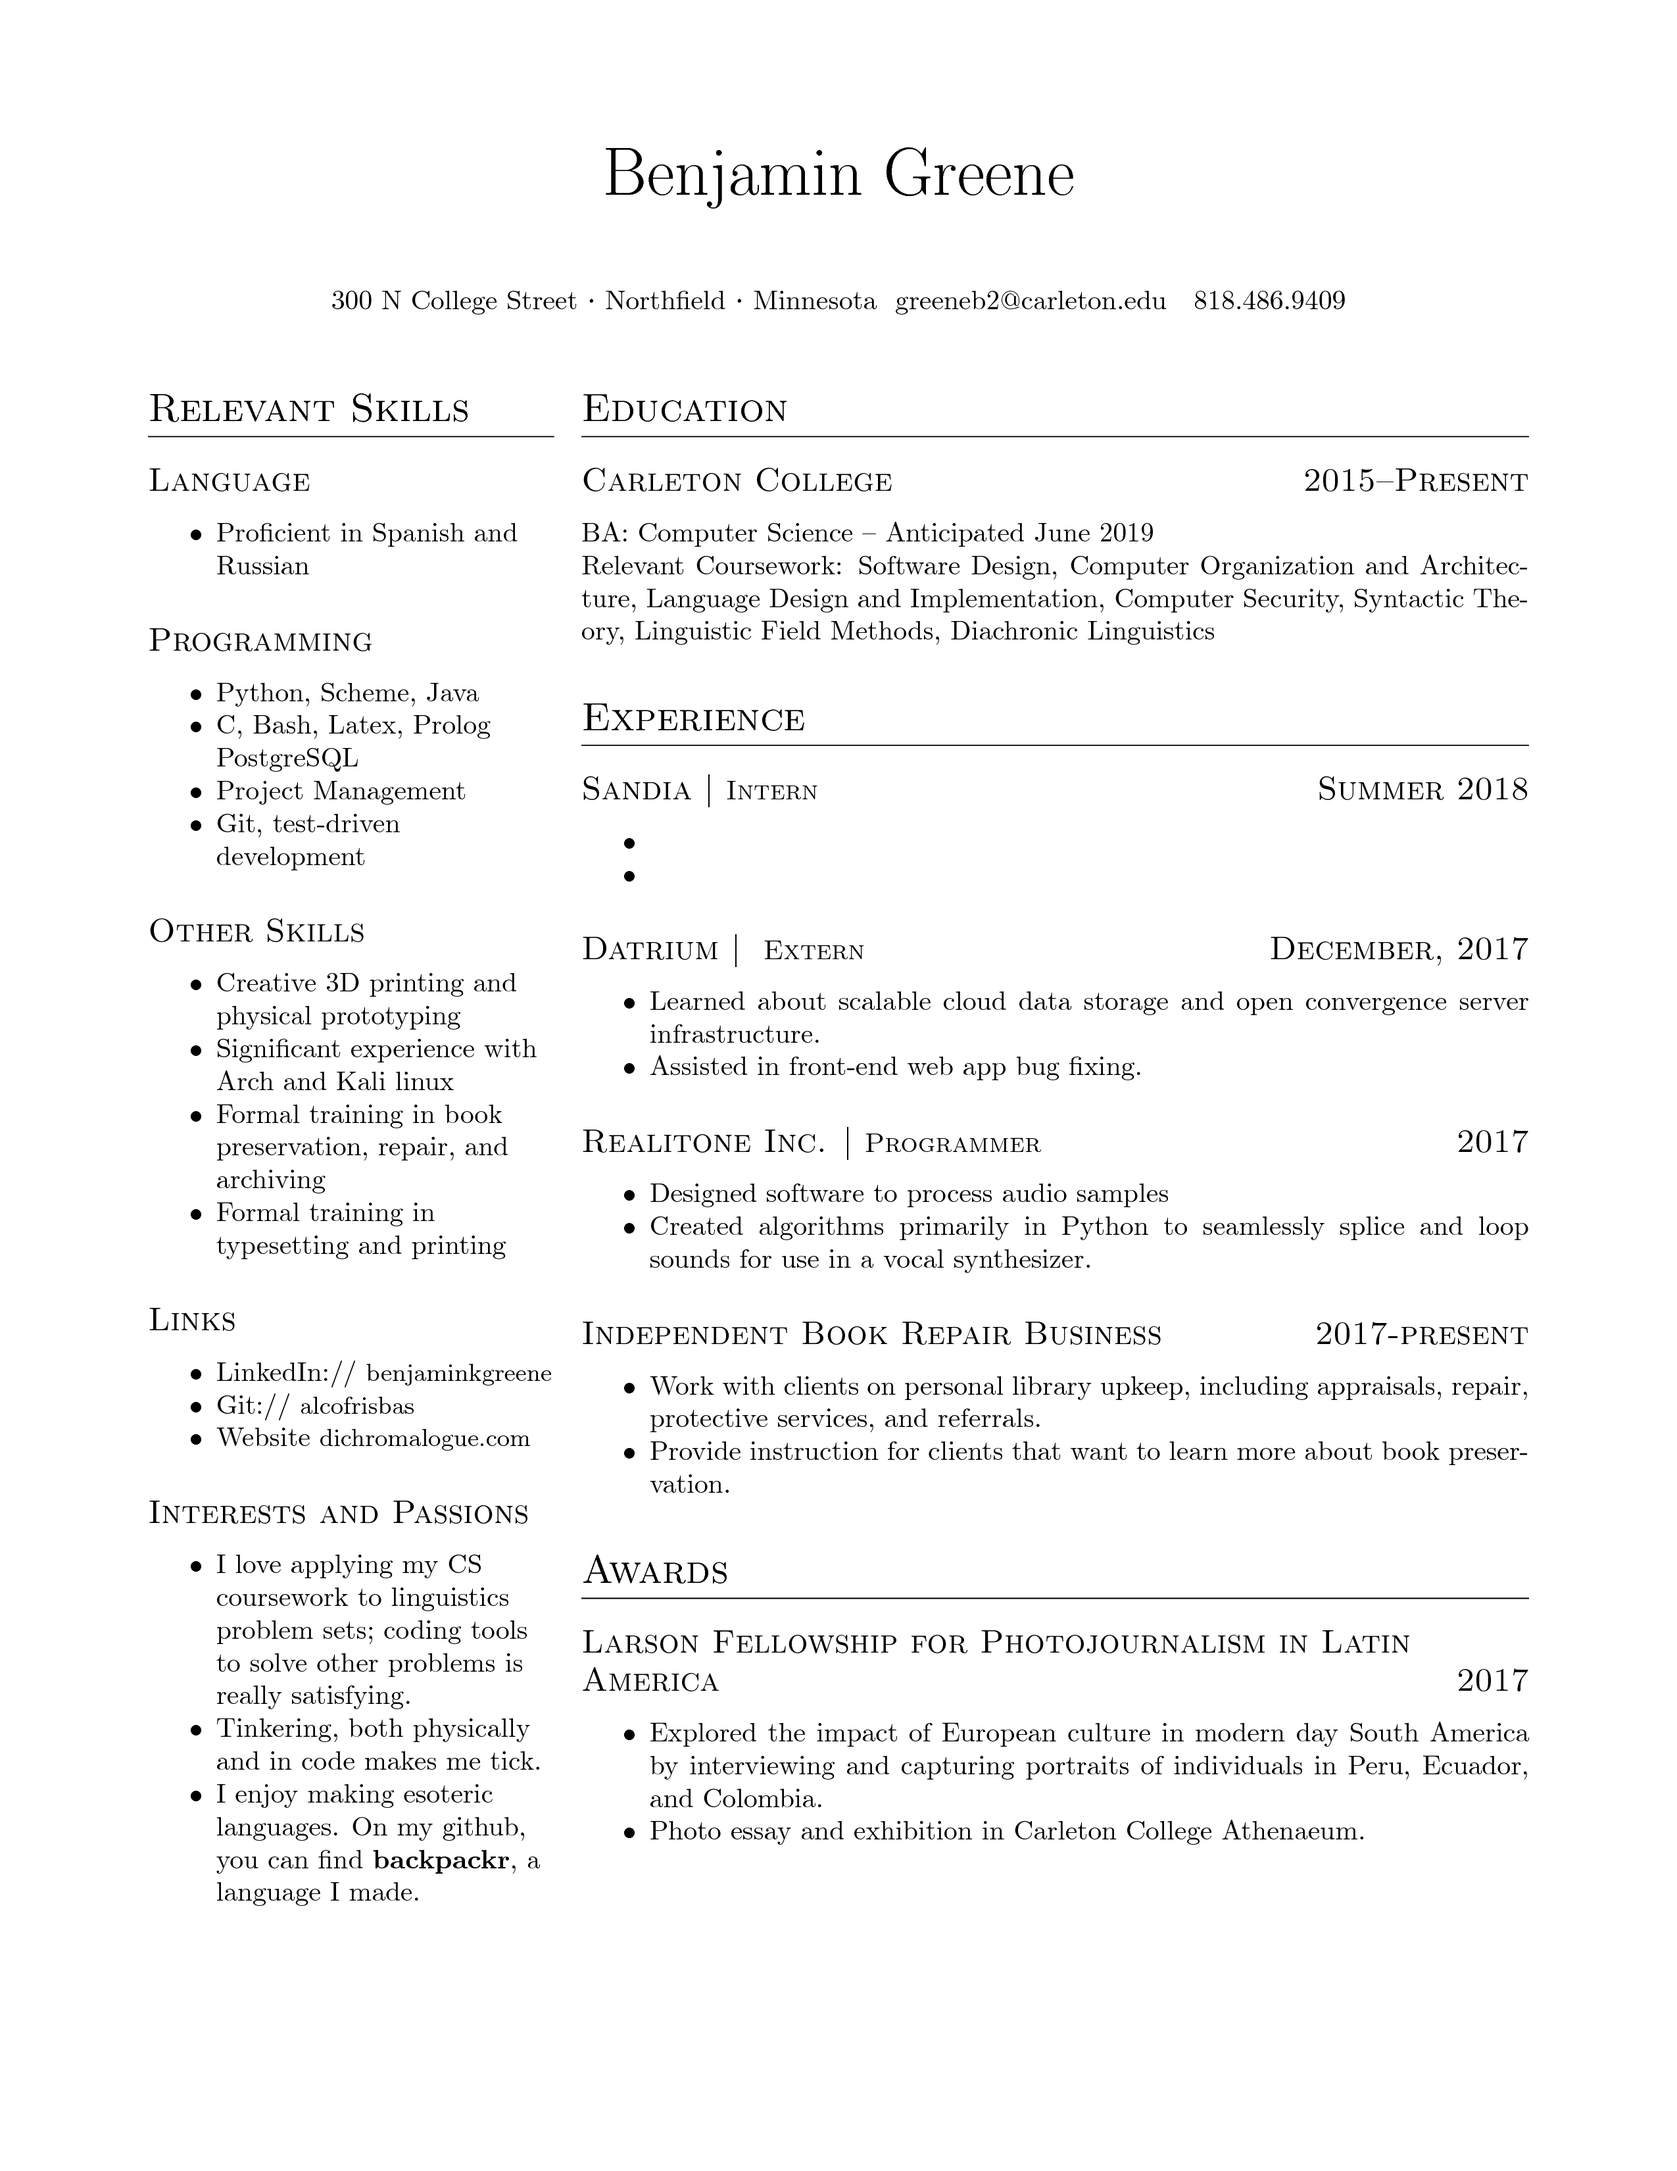
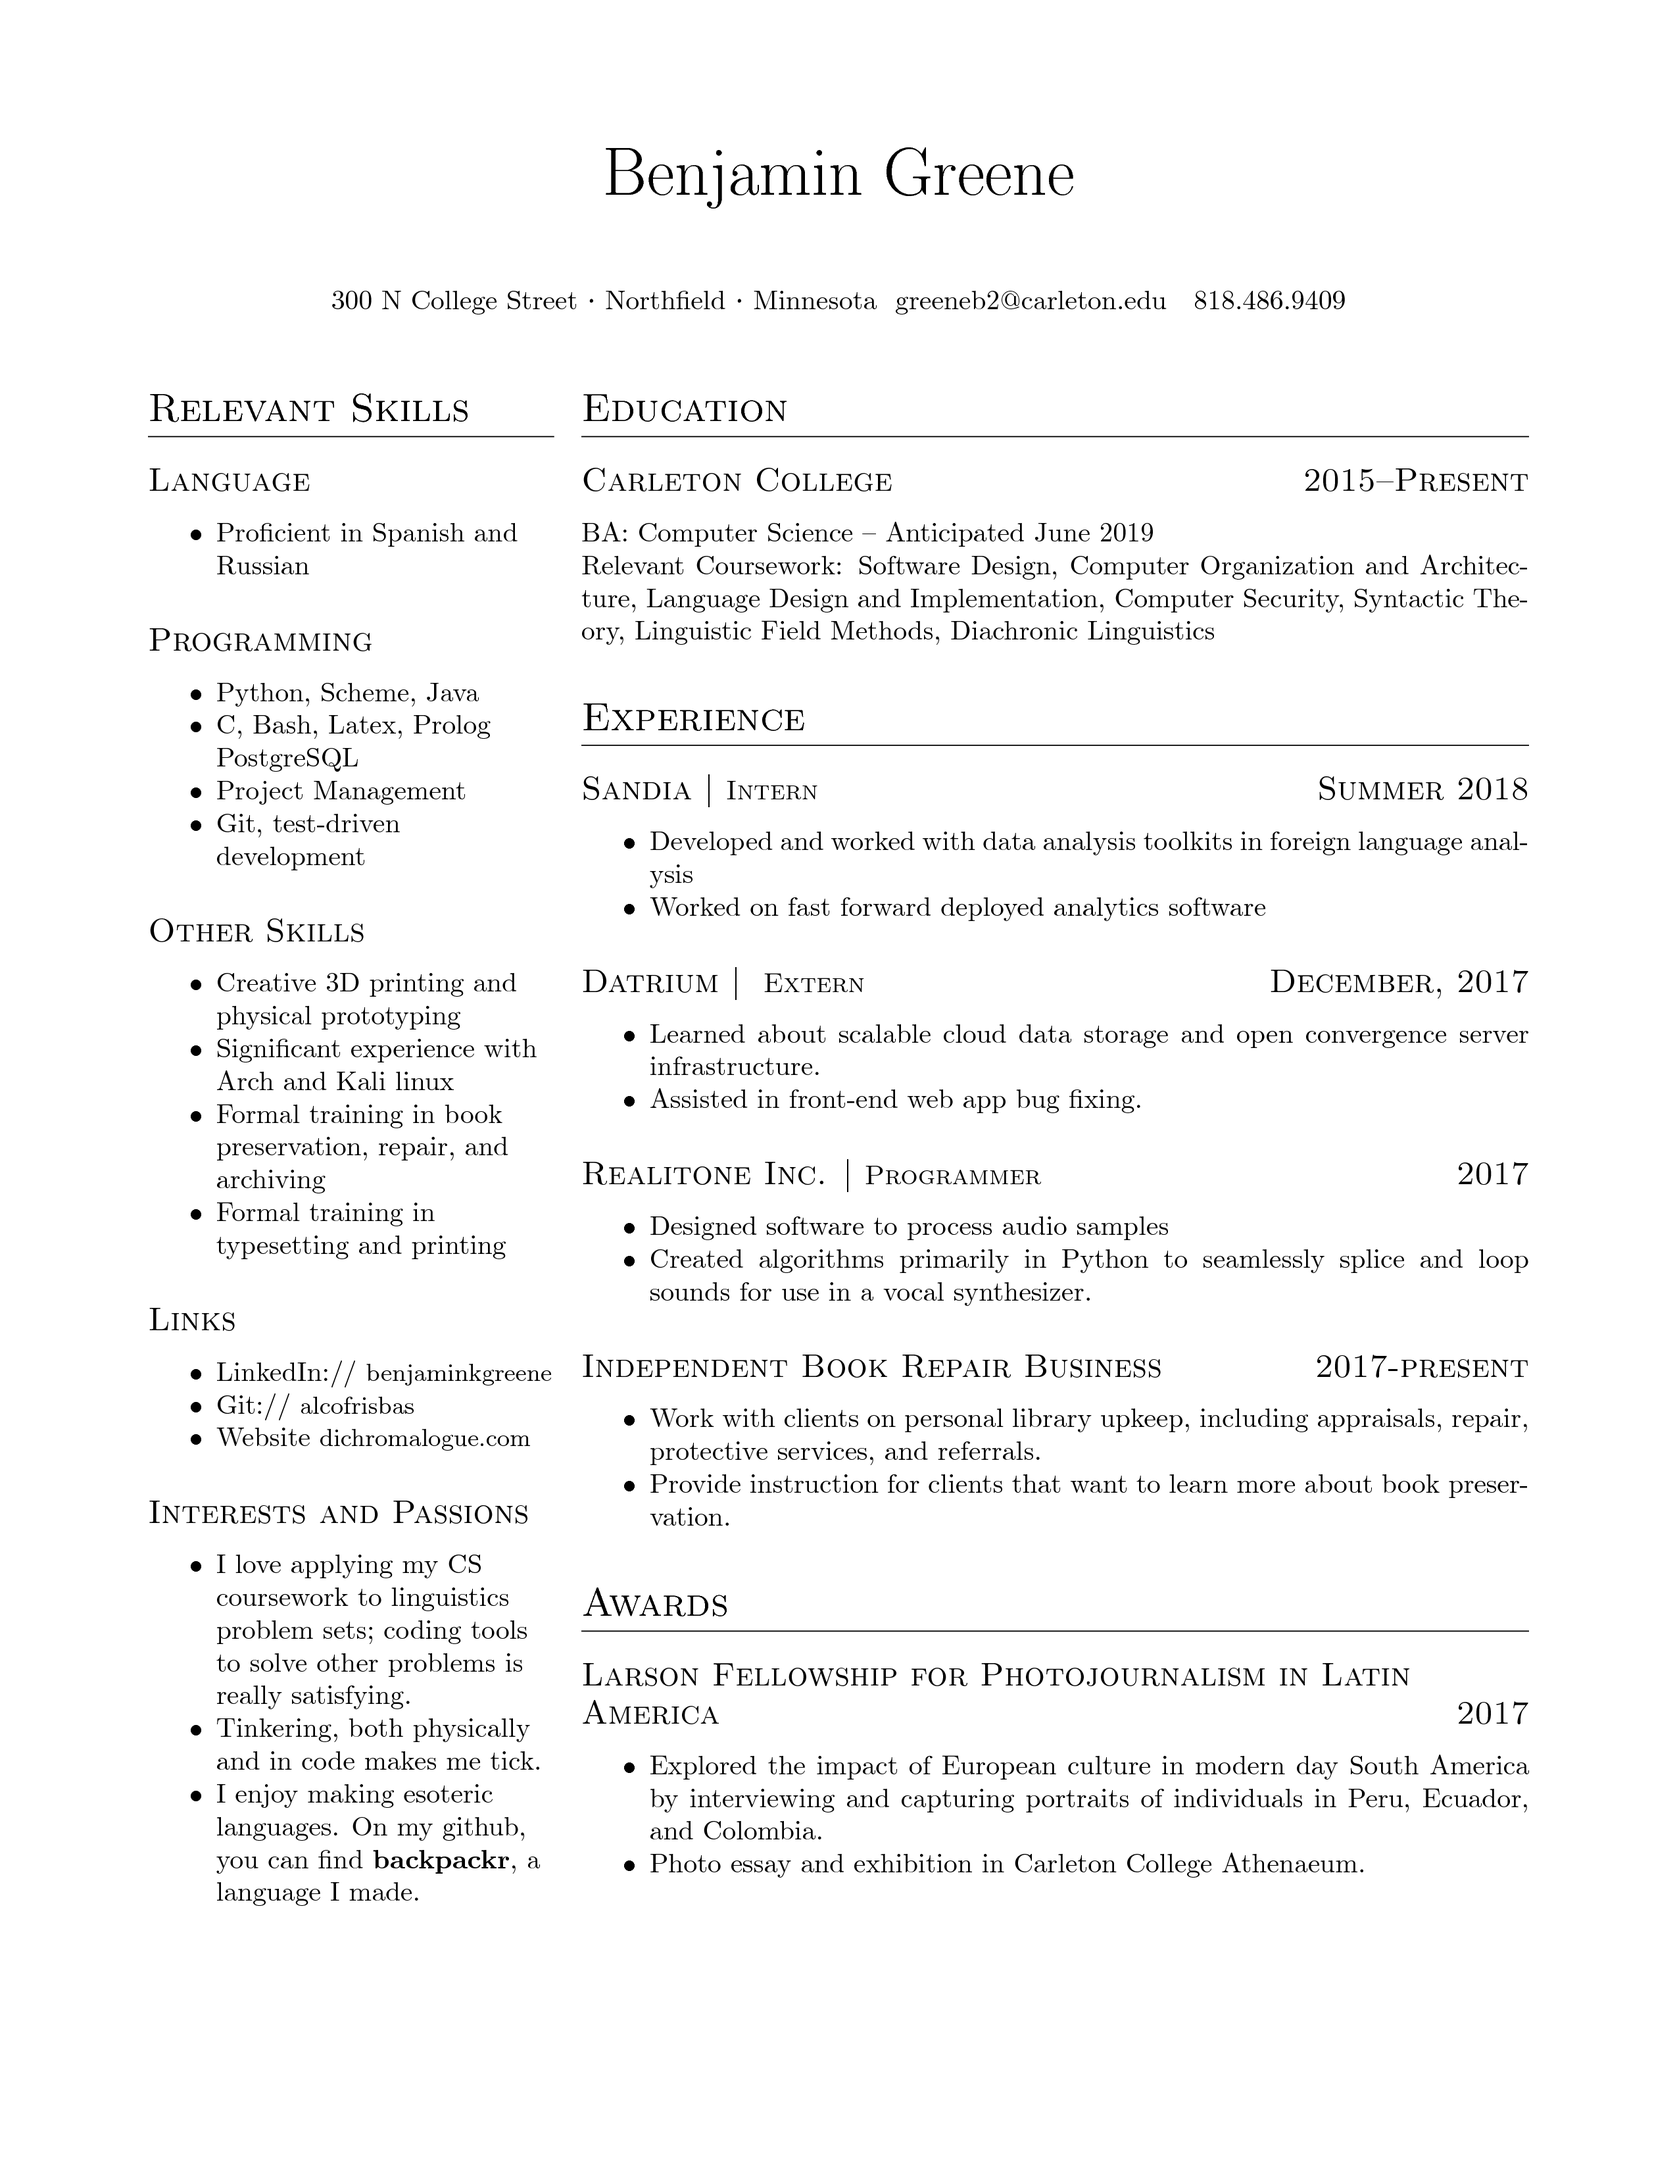
added sandia

diff --git a/cv.tex b/cv.tex
@@ -49,7 +49,7 @@ BA: Computer Science -- Anticipated June 2019\\
 Relevant Coursework: Software Design, Computer Organization and Architecture, Language Design and Implementation, Computer Security, Syntactic Theory, Linguistic Field Methods, Diachronic Linguistics
 \section{Experience}
 \possubsection{Sandia}{Intern}{Summer 2018}
-\workitems{}{}
+\workitems{Developed and worked with data analysis toolkits in foreign language analysis}{Worked on fast forward deployed analytics software}
 \possubsection{Datrium}{ Extern}{December, 2017}
 \workitems{Learned about scalable cloud data storage and open convergence server infrastructure.}{Assisted in front-end web app bug fixing.}
 \possubsection{Realitone Inc.}{Programmer}{2017}

diff --git a/relics/resume_11Jul2018.tex b/relics/resume_11Jul2018.tex
@@ -49,7 +49,7 @@ BA: Computer Science -- Anticipated June 2019\\
 Relevant Coursework: Software Design, Computer Organization and Architecture, Language Design and Implementation, Computer Security, Syntactic Theory, Linguistic Field Methods, Diachronic Linguistics
 \section{Experience}
 \possubsection{Sandia}{Intern}{Summer 2018}
-\workitems{}{}
+\workitems{Developed and worked with data analysis toolkits in foreign language analysis}{Worked on fast forward deployed analytics software}
 \possubsection{Datrium}{ Extern}{December, 2017}
 \workitems{Learned about scalable cloud data storage and open convergence server infrastructure.}{Assisted in front-end web app bug fixing.}
 \possubsection{Realitone Inc.}{Programmer}{2017}
